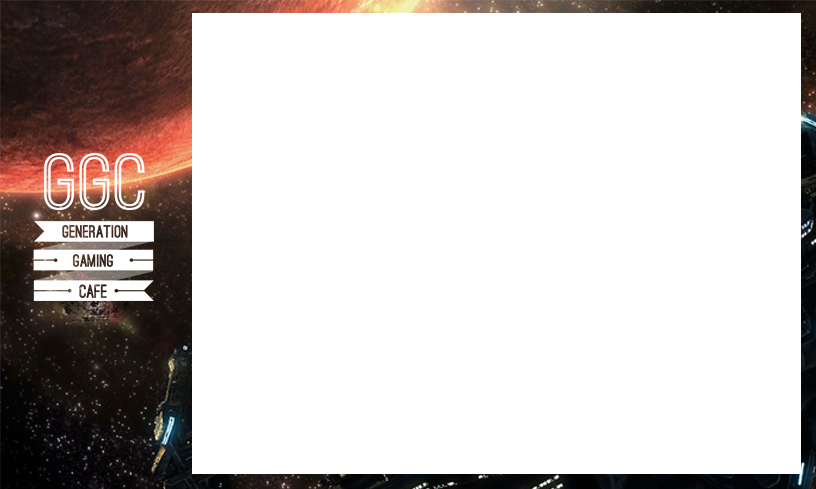
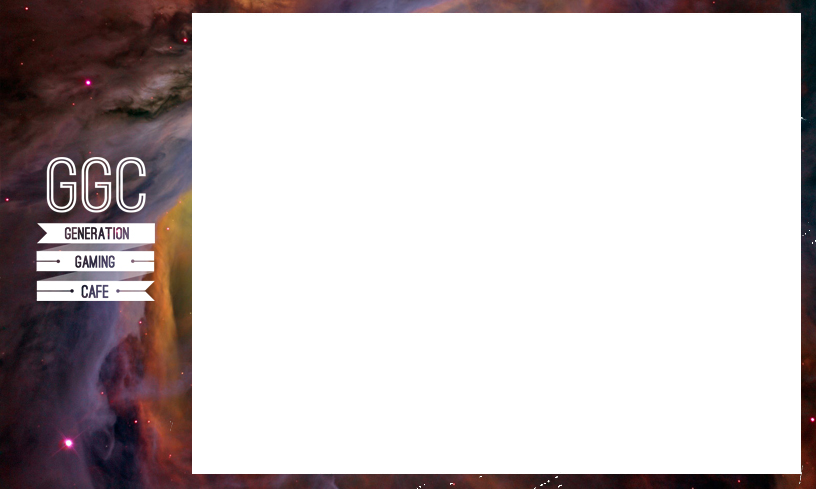
remove copyright issues

diff --git a/index.html b/index.html
@@ -61,8 +61,8 @@ a:hover   {
 <!-- header -->
 <div id="header">
 
-<div style="position:relative; top:0px; left:0px; width:960px; height:330px;">
-<img src="img/images10.jpg" name="slide" width=960 height=330>
+<div style="position:relative; top:0px; left:0px; width:960px; height:200px;">
+<img src="img/images12.jpg" name="slide" width=960 height=200>
 
 <div style="position:absolute; top:0px; left:0px;">
 	<svg xmlns="http://www.w3.org/2000/svg" 
@@ -73,15 +73,15 @@ a:hover   {
    	.hover_group:hover
     { opacity: 0.5;}
  	</style>
-		<a xlink:href="index.html"><image xlink:href="ggcname.png" x="25px" y="160" width="123px" height="150px"/></a>
+		<a xlink:href="index.html"><image xlink:href="ggcname.png" x="25px" y="25" width="123px" height="150px"/></a>
 	
 	<g class="hover_group"> <a xlink:href="contact.html">
-	<text x="700" y="310" style="fill:#fff; font-size:12px; font-weight:bold; font-family:Lucida Sans Unicode;">CONTACT</text></a></g>
+	<text x="700" y="185" style="fill:#fff; font-size:12px; font-weight:bold; font-family:Lucida Sans Unicode;">CONTACT</text></a></g>
     
 	<g class="hover_group"> <a xlink:href="events.html">
-	<text x="805" y="310" style="fill:#fff; font-size:13px; font-weight:bold; font-family:Lucida Sans Unicode;">EVENTS</text></a></g>
+	<text x="805" y="185" style="fill:#fff; font-size:13px; font-weight:bold; font-family:Lucida Sans Unicode;">EVENTS</text></a></g>
 	
-	<text x="895" y="310" style="fill:#fff; opacity:0.5; font-size:13px; font-weight:bold; font-family:Lucida Sans Unicode;">HOME</text>	
+	<text x="895" y="185" style="fill:#fff; opacity:0.5; font-size:13px; font-weight:bold; font-family:Lucida Sans Unicode;">HOME</text>	
 	
 </svg> </div> </div></div>
 <!-- end #header -->
@@ -90,7 +90,7 @@ a:hover   {
 
 <!-- div contains relative placement for all shirts etc 
 extends 100 px below last image -->
-<div style="position:relative; height:1650px; width:960px; vertical-align:top;">
+<div style="position:relative; height:1400px; width:960px; vertical-align:top;">
 
 
 <!-- text -->
@@ -103,11 +103,11 @@ extends 100 px below last image -->
      
 <!-- images of GGC -->
 
-<div style="position:absolute; height:333px; width:500px; left:72px; top:210px;">
-<img src="img/games/pc-cafe-2.jpg" />
+<div style="position:absolute; height:333px; width:500px; right:72px; top:210px;">
+<img src="img/games/image4.jpg" />
 </div>
 
-<div style="position:absolute; height:333px; width:311px; right:72px; top:210px;">
+<div style="position:absolute; height:333px; width:311px; left:72px; top:210px;">
 <img src="img/games/images.jpg" />
 </div>
 
@@ -134,7 +134,7 @@ extends 100 px below last image -->
      </div>
 
     
-<!-- first row -->     
+<!--     
     <div style="position:absolute; right:72px; top:1350px;">
     <img src='img/games/1.jpg' /> </div>   
 
@@ -160,7 +160,7 @@ extends 100 px below last image -->
     <img src='img/games/5.jpg' /> </div>   
     
 
-<!-- first row -->
+
     <div style="position:absolute; right:72px; top:1460px;">
     <img src='img/games/16.jpg' /> </div>   
 
@@ -184,7 +184,7 @@ extends 100 px below last image -->
 
 	<div style="position:absolute; left:72px; top:1460px;">
     <img src='img/games/14.jpg' /> </div>   
- 
+ -->
 </div> 
 <!-- end #mainContent --></div>
 

diff --git a/contact.html b/contact.html
@@ -62,7 +62,7 @@ a:hover   {
 <div id="header">
 
 <div style="position:relative; top:0px; left:0px; width:960px; height:330px;">
-<img src="img/image7.jpg" name="slide" width=960 height=330>
+<img src="img/images10.jpg" name="slide" width=960 height=330>
 
 <div style="position:absolute; top:0px; left:0px;">
 	<svg xmlns="http://www.w3.org/2000/svg" 

diff --git a/events.html b/events.html
@@ -61,7 +61,7 @@ a:hover   {
 <div id="header">
 
 <div style="position:relative; top:0px; left:0px; width:960px; height:330px;">
-<img src="img/image9.jpg" name="slide" width=960 height=330>
+<img src="img/images10.jpg" name="slide" width=960 height=330>
 
 <div style="position:absolute; top:0px; left:0px;">
 	<svg xmlns="http://www.w3.org/2000/svg" 
